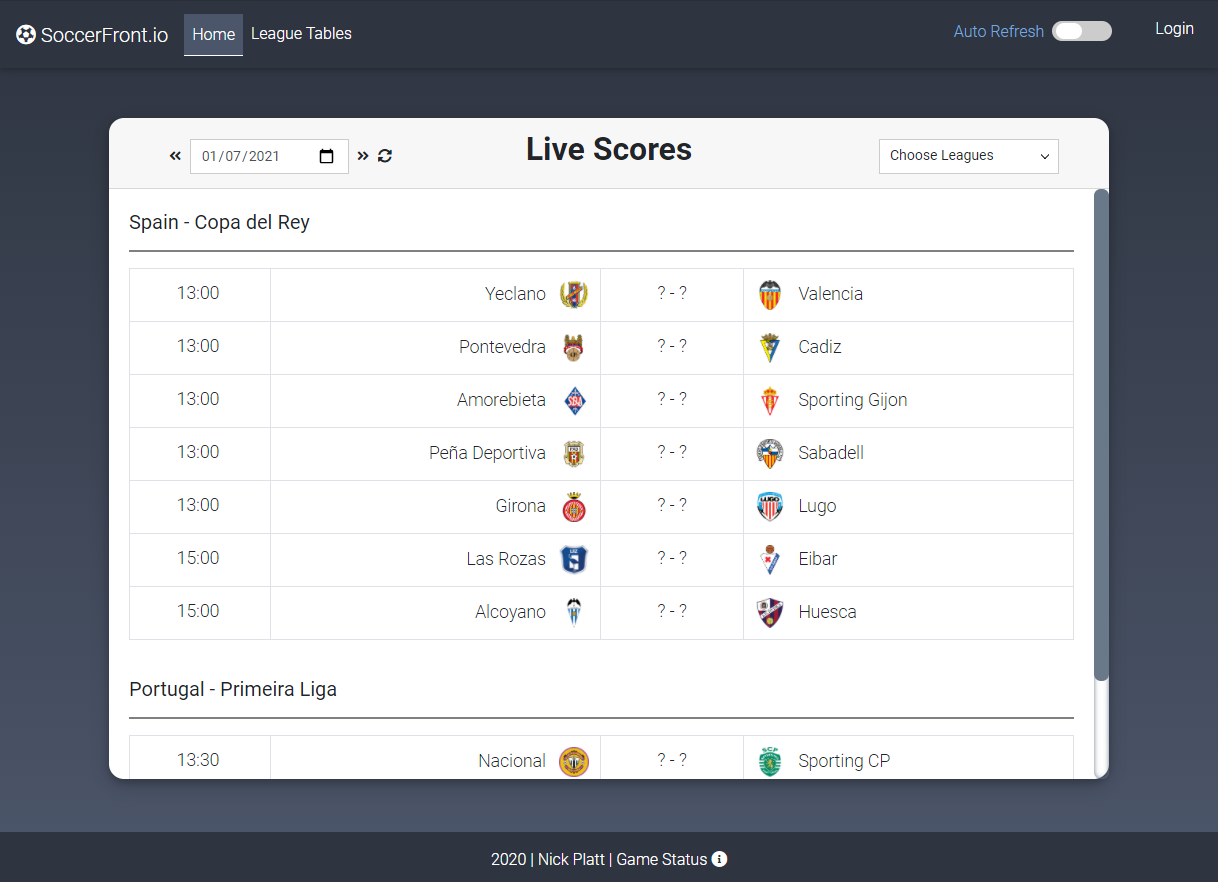
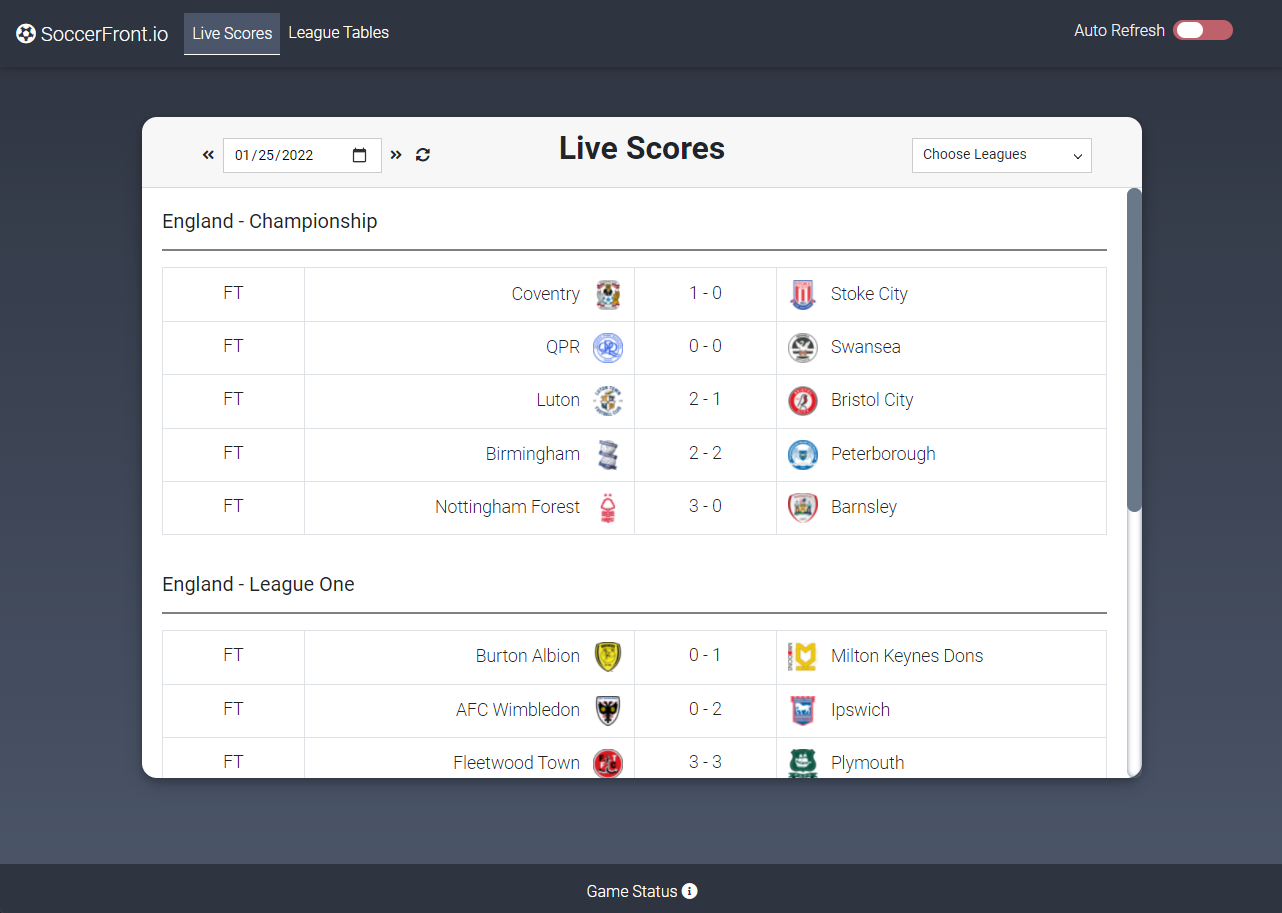
Commit 1/25 - 2
Updated README with new images and info

diff --git a/README.md b/README.md
@@ -1,7 +1,7 @@
 # Soccerfront
 
-<strong>The Front Page of Soccer</strong>
-Updated 01/07/2021
+<strong>The Front Page of Soccer</strong><br>
+Last updated: 01/25/2022
 
 Current Homepage View:<br>
 <img class="image" src="images/home.png" width="50%" height="50%">
@@ -14,7 +14,7 @@ This web application is run in Nodejs using the Express framework.  The applicat
 
 Soccerfront is the front page of soccer, showing you today's games in Europe's top leagues. This table offers the ability to see several years of soccer score data, via the dropdown calendar date picker. You are able to change the day by clicking on the calendar dropdown or by using the date arrows, which will move you one day forward/back per click. You are also able to turn off/on leagues that interest you in the "Choose Leagues" dropdown. The "Auto Refresh" toggle in the banner also will update the table every 60 seconds when activated.
 
-You are also able to look at the league standings for these leagues by clicking on the "League Tables" link in the banner. The league table page will let you select the league you want to see and shows the team's position, games played, wins, ties, losses, goals for/against, goal difference, and overall points. You are able to choose what league table you want to see by using the "Choose League" dropdown.
+You are also able to look at the league standings for these leagues by clicking on the "League Tables" link in the banner. The league table page will let you select the league and season you want to see and shows the team's position, games played, wins, ties, losses, goals for/against, goal difference, and overall points. You are able to choose what league table you want to see by using the "Choose League" dropdown. You are able to choose which season you would like to see as well (back to 2013-2014) by clicking on the "Season" dropdown.
 
 Future features include: expanded leagues, additional match details on row click (who scored, assisted, yellow cards, red cards, substitutions - with times), ability to signup/login and set favorite leagues, breaking news (including injuries/transfers) page, and many others!
 
@@ -23,6 +23,7 @@ Future features include: expanded leagues, additional match details on row click
 - World
 
   - International Friendlies
+  - World Cup Qualification
 
 - Europe
 
